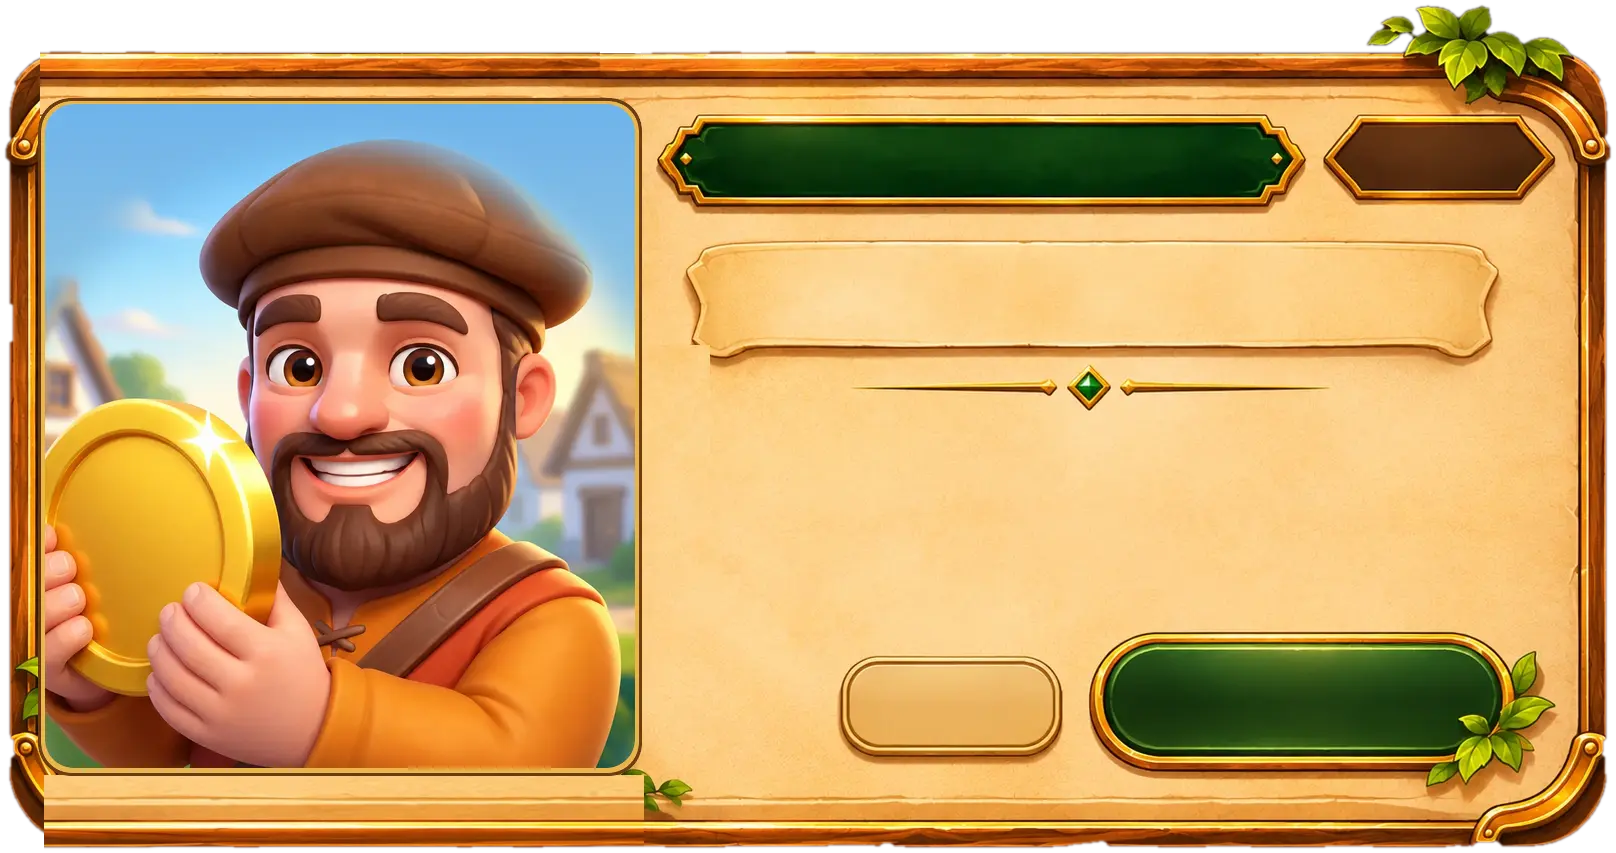
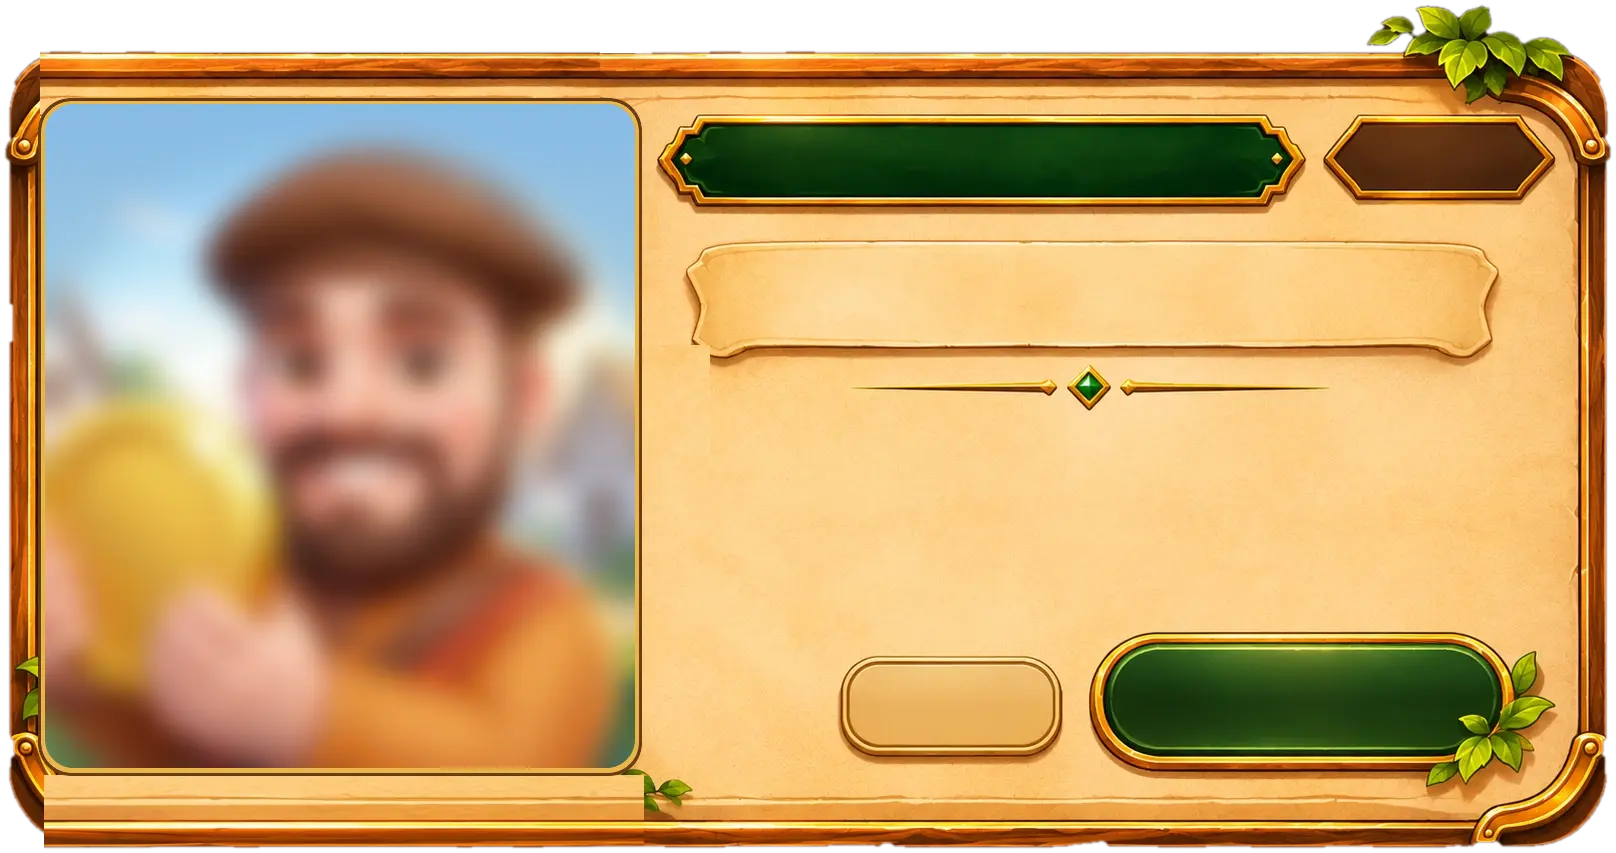
Merchant pop-up: the new merchant character stands at the left like Merve
The portrait window now holds a soft village backdrop and the sent merchant
cut-out (red cap, coin in hand) is drawn in front of it.

Claude-Session: https://claude.ai/code/session_01TFmxMUJ6DHymmmzuLnGYtL

Changed region(s): [[0.0309, 0.1219, 0.4022, 0.9144], [0.0309, 0.1219, 0.1238, 0.1829]]

diff --git a/town-economy/src/components/MerchantOfferModal.tsx b/town-economy/src/components/MerchantOfferModal.tsx
@@ -2,6 +2,7 @@ import React from "react";
 import { Image, Modal, StyleSheet, useWindowDimensions, View } from "react-native";
 import { useAds } from "../ads/AdsContext";
 import cardArt from "../../assets/ui/mervecard/merchant.webp";
+import characterArt from "../../assets/ui/mervecard/merchant_char.webp";
 import { useEconomyContext } from "../economy/EconomyContext";
 import { TICK_MS } from "../economy/useEconomy";
 import { FONT } from "../theme";
@@ -9,8 +10,8 @@ import { Text } from "./AppText";
 import { ModalBackdrop } from "./ModalBackdrop";
 import { ScalePressable } from "./ScalePressable";
 
-// The card is Merve's tutorial card with the travelling merchant in the
-// portrait window: the same 1616 x 853 art, so every field sits where hers do
+// The card is Merve's tutorial card with the travelling merchant standing in
+// the portrait window: the same 1616 x 853 art, so every field sits where hers do
 // (positions in the art's own pixels, scaled by card width / ART_W).
 const ART_W = 1616;
 const ART_H = 853;
@@ -70,6 +71,20 @@ export function MerchantOfferModal() {
       <ModalBackdrop>
         <View style={{ width: cardW, height: cardH }}>
           <Image source={cardArt} style={styles.art} resizeMode="stretch" />
+          {/* The merchant stands in front of the window, like Merve: his
+              hat and the coin in his hand reach past the window's edge. */}
+          <Image
+            source={characterArt}
+            style={{
+              pointerEvents: "none",
+              position: "absolute",
+              left: w(14),
+              top: w(150),
+              width: w(690),
+              height: w(644),
+            }}
+            resizeMode="contain"
+          />
 
           <View style={[styles.field, box(NAME)]}>
             <Text
